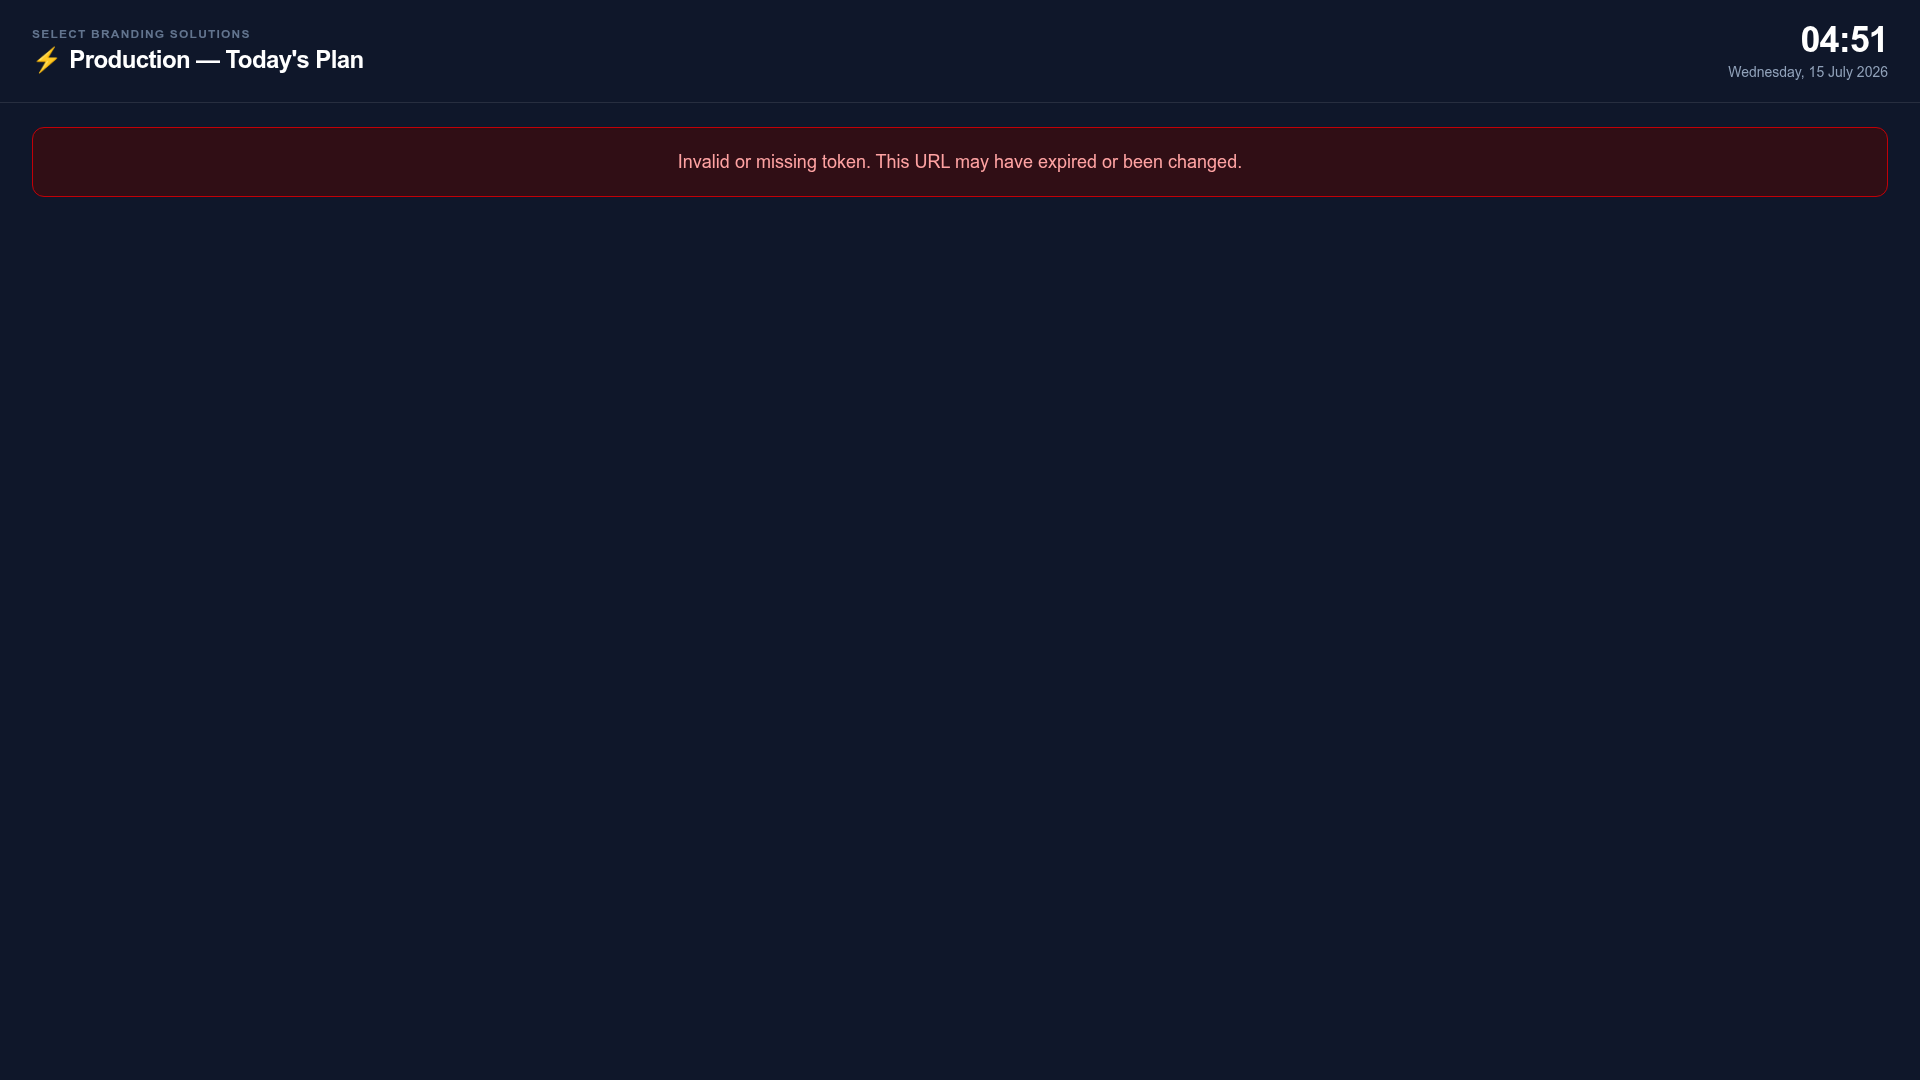
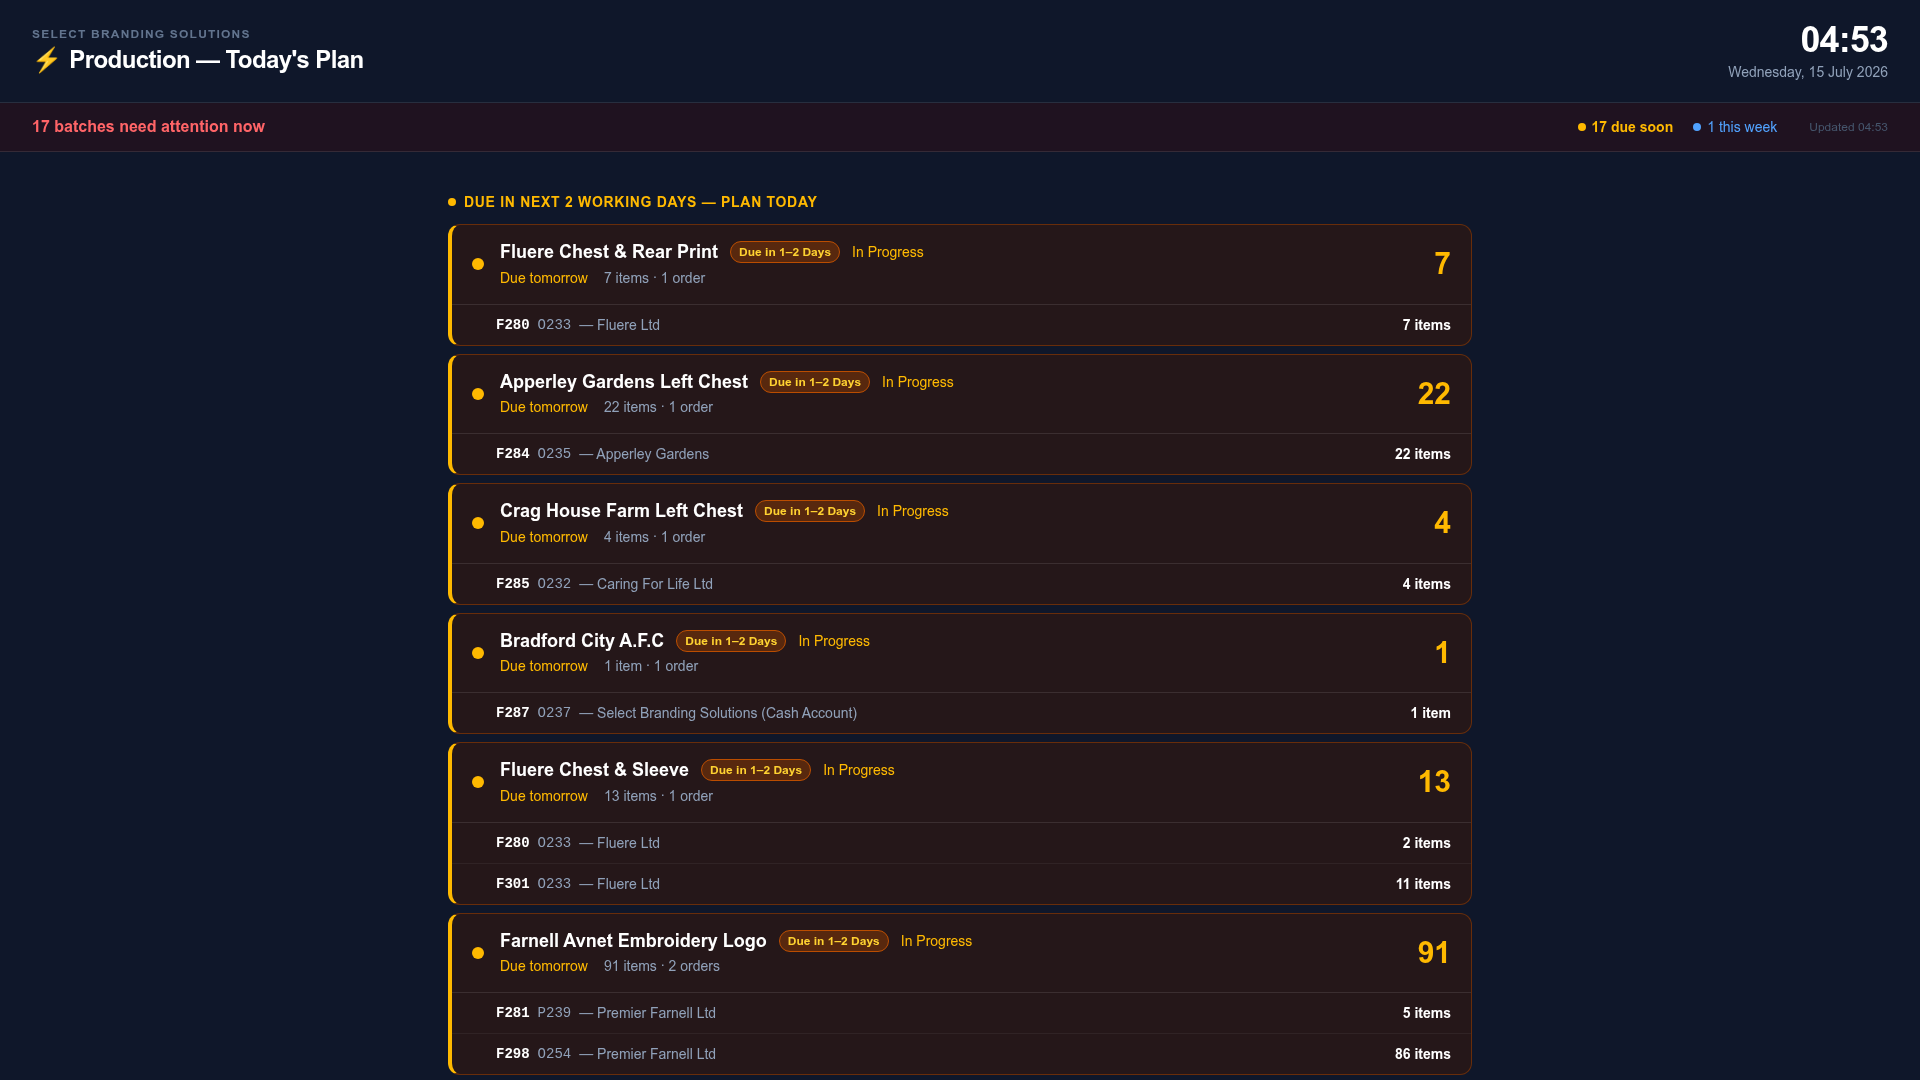
Add external order system production screen to TV display rotation
Move the order system production screen URL from client-side code to a server environment variable to prevent token exposure.

Replit-Commit-Author: Agent
Replit-Commit-Session-Id: 9e657442-b4cd-492e-9867-b22a69f1398b
Replit-Commit-Checkpoint-Type: full_checkpoint
Replit-Commit-Event-Id: dc0a4c11-8c1a-4825-8ee7-3a9681591bcc
Replit-Commit-Screenshot-Url: https://storage.googleapis.com/screenshot-production-us-central1/fc4bbb5b-689a-4128-a66e-b029382025d3/9e657442-b4cd-492e-9867-b22a69f1398b/emHMGy9
Replit-Helium-Checkpoint-Created: true

diff --git a/client/src/pages/DashboardTv.tsx b/client/src/pages/DashboardTv.tsx
@@ -4,6 +4,7 @@ import { CheckCircle2, ChevronLeft, ChevronRight, Circle, Maximize, Minimize, Pa
 
 interface TvData {
   lastUpdated: string;
+  orderSystemUrl: string | null;
   todaysProduction: {
     ordersDueToday: number;
     ordersCompletedToday: number;
@@ -208,7 +209,9 @@ export default function DashboardTv() {
   });
 
   const hasTeamPage = (data?.operatives?.length ?? 0) > 0;
-  const pageCount = data ? 4 + (hasTeamPage ? 1 : 0) : 1;
+  const hasOrderPage = !!data?.orderSystemUrl;
+  const orderOffset = hasOrderPage ? 1 : 0;
+  const pageCount = data ? 4 + orderOffset + (hasTeamPage ? 1 : 0) : 1;
   const [page, setPage] = useState(0);
   const [paused, setPaused] = useState(false);
   const [navNonce, setNavNonce] = useState(0);
@@ -305,10 +308,11 @@ export default function DashboardTv() {
       <div className="flex flex-col h-full">
         <div className="flex-1 min-h-0">
           {page === 0 && <TodaysPlanPage data={data} />}
-          {page === 1 && <DueOutPage data={data} />}
-          {page === 2 && <TeamGoalPage data={data} />}
-          {hasTeamPage && page === 3 && <OperativesPage data={data} />}
-          {page === 3 + (hasTeamPage ? 1 : 0) && <UpNextPage data={data} />}
+          {hasOrderPage && page === 1 && <OrderSystemPage url={data.orderSystemUrl!} />}
+          {page === 1 + orderOffset && <DueOutPage data={data} />}
+          {page === 2 + orderOffset && <TeamGoalPage data={data} />}
+          {hasTeamPage && page === 3 + orderOffset && <OperativesPage data={data} />}
+          {page === 3 + orderOffset + (hasTeamPage ? 1 : 0) && <UpNextPage data={data} />}
         </div>
         {pageCount > 1 && (
           <div className="flex items-center justify-center gap-4 pt-4" data-testid="page-dots">
@@ -544,6 +548,20 @@ function TodaysPlanPage({ data }: { data: TvData }) {
           </Panel>
         </div>
       )}
+    </div>
+  );
+}
+
+// ── Order System (wardrobe) production screen — embedded ───────────────────
+function OrderSystemPage({ url }: { url: string }) {
+  return (
+    <div className="h-full rounded-2xl overflow-hidden ring-1 ring-slate-700/60 bg-slate-900/70">
+      <iframe
+        src={url}
+        title="Order System — Production Today's Plan"
+        className="w-full h-full border-0"
+        data-testid="iframe-order-system"
+      />
     </div>
   );
 }

diff --git a/server/dashboardTv.ts b/server/dashboardTv.ts
@@ -912,5 +912,9 @@ export async function buildDashboardTvData() {
     dueOut,
     todaysPlan,
     upNext,
+    // Order System (wardrobe) TV display URL — kept server-side so the
+    // tokened link never ships in the client bundle. Only handed out to
+    // callers that already passed the TV dashboard token check.
+    orderSystemUrl: process.env.ORDER_SYSTEM_TV_URL || null,
   };
 }

diff --git a/replit.md b/replit.md
@@ -35,7 +35,7 @@
 
 ## TV Dashboard (`/dashboard-tv`)
 - For the Firestick TV. Token-protected (`tv-dashboard-token`), auto-refreshes every 60s, fullscreen toggle.
-- Rotation (60s per page; final page holds 180s): **Today's Plan** → **Due Out — Next 48 Hours** → **Team Goal** → **Our Team** (only if operatives exist) → **Up Next** (always last).
+- Rotation (60s per page; final page holds 180s): **Today's Plan** → **Order System Production** (embedded iframe of the other app's tokened TV display; URL lives in the `ORDER_SYSTEM_TV_URL` env var, served to the client via the TV data endpoint — never hardcode it in client code; page only appears when the env var is set) → **Due Out — Next 48 Hours** → **Team Goal** → **Our Team** (only if operatives exist) → **Up Next** (always last).
 - Today's Plan: per-person checklists of today's scheduled items + per-machine line-up (section 13 `todaysPlan` in `server/dashboardTv.ts`).
 - Due Out: overdue/due today/next 48h tiles + colour-coded job rows with allocated person (`dueOut`, max 12 rows).
 - Team Goal: garments/jobs left, this week vs last week, contributor bars (`teamGoal`).

diff --git a/.agents/memory/external-tokened-embeds.md b/.agents/memory/external-tokened-embeds.md
@@ -1,0 +1,12 @@
+---
+name: External tokened embeds
+description: How the TV dashboard embeds screens from the user's other apps without leaking tokens
+---
+
+The TV dashboard can embed screens from the user's other Replit apps (e.g. the Order System at wardrobe.selectbranding.co.uk) as iframe rotation pages, using that app's own token-protected read-only display URL.
+
+**Rule:** never hardcode the tokened URL in client code or replit.md — it ships in the public JS bundle and git history. Keep it in an env var (e.g. `ORDER_SYSTEM_TV_URL`) and return it from the TV data endpoint, which already validates this app's own TV token.
+
+**Why:** architect review failed the first version for credential exposure; the SPA bundle is downloadable without login even though the app is staff-only.
+
+**How to apply:** any future cross-app embed gets its URL via env var + the token-gated data response; the rotation page only appears when the value is set. Also remember the other app's dev and prod use separate databases — tokens created in its workspace won't work on the published site until republished/stored where prod reads it.

diff --git a/.agents/memory/MEMORY.md b/.agents/memory/MEMORY.md
@@ -44,3 +44,4 @@
 
 - [Auth session patterns](auth-session-patterns.md) — staff=userId (regenerates), customer=customerUserId (legacy login does NOT regenerate); any new login path MUST regenerate before attaching id. OTP lives in login_codes table.
 - [Server hot-reload gap](server-hot-reload-gap.md) — backend edits may not auto-reload in dev; restart the workflow before curl-testing new server behavior or you test stale code.
+- [External tokened embeds](external-tokened-embeds.md) — cross-app TV embeds: tokened URL goes in an env var served via the token-gated data endpoint, never hardcoded in client code.
